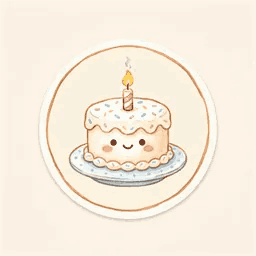
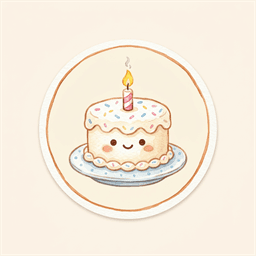
小程序: 纪念日图标恢复原始高清去除半透明底，界面样式去透明化

diff --git a/miniapp/src/features/main/anniversary.scss b/miniapp/src/features/main/anniversary.scss
@@ -5,7 +5,7 @@
 .anniv-list__skeleton--short { height: 148rpx; width: 86%; }
 @keyframes anniv-shimmer { to { background-position: -200% 0; } }
 .anniv-list__empty { display: flex; flex-direction: column; align-items: center; gap: 10rpx; padding: 80rpx 40rpx; background: #fffdf8; border: 1px solid #f0dcc8; border-radius: 28rpx; box-shadow: inset 0 1px 0 rgba(255, 255, 255, .85), 0 14rpx 30rpx rgba(126, 82, 49, .08); animation: anniv-rise .4s ease-out both; }
-.anniv-list__empty-icon { width: 132rpx; height: 132rpx; margin-bottom: 6rpx; filter: drop-shadow(0 8rpx 14rpx rgba(227, 154, 85, .25)); }
+.anniv-list__empty-icon { width: 132rpx; height: 132rpx; margin-bottom: 6rpx; }
 .anniv-list__empty-title { color: #5e3b1d; font-size: var(--font-size-card-title); font-weight: var(--font-weight-semibold); }
 .anniv-list__empty-hint { color: #a89489; font-size: var(--font-size-aux); }
 .anniv-list__card { position: relative; display: flex; align-items: center; gap: 22rpx; padding: 30rpx 26rpx; background: #fffdf8; border: 1px solid #f0dcc8; border-radius: 28rpx; box-shadow: inset 0 1px 0 rgba(255, 255, 255, .85), 0 2rpx 6rpx rgba(126, 82, 49, .05), 0 14rpx 30rpx rgba(126, 82, 49, .08); animation: anniv-rise .4s ease-out both; }
@@ -13,21 +13,21 @@
 .anniv-list__card:nth-child(3) { animation-delay: .08s; }
 .anniv-list__card:nth-child(n+4) { animation-delay: .12s; }
 .anniv-list__card--today { background: linear-gradient(180deg, #fff3dd, #ffe9cd); border-color: #f0c188; box-shadow: inset 0 1px 0 rgba(255, 255, 255, .9), 0 10rpx 26rpx rgba(227, 154, 85, .22); }
-.anniv-list__icon-ring { display: flex; align-items: center; justify-content: center; flex-shrink: 0; width: 104rpx; height: 104rpx; background: linear-gradient(160deg, #fff4e3, #ffe6c9); border-radius: 50%; box-shadow: inset 0 0 0 2rpx rgba(255, 255, 255, .7), 0 4rpx 10rpx rgba(227, 154, 85, .2); }
-.anniv-list__icon { width: 68rpx; height: 68rpx; }
+.anniv-list__icon-ring { display: flex; align-items: center; justify-content: center; flex-shrink: 0; width: 108rpx; height: 108rpx; background: #fbf3e3; border-radius: 26rpx; box-shadow: 0 4rpx 10rpx rgba(126, 82, 49, .1); }
+.anniv-list__icon { width: 88rpx; height: 88rpx; }
 .anniv-list__body { display: flex; flex: 1; flex-direction: column; gap: 6rpx; min-width: 0; }
 .anniv-list__name { color: #5e3b1d; font-size: var(--font-size-card-title); font-weight: var(--font-weight-bold); }
 .anniv-list__meta { color: #b49a8d; font-size: var(--font-size-aux); }
 .anniv-list__note { color: #a89489; font-size: var(--font-size-aux); overflow: hidden; text-overflow: ellipsis; white-space: nowrap; }
 .anniv-list__sub { color: #d97b4f; font-size: var(--font-size-aux); font-weight: var(--font-weight-medium); }
-.anniv-list__count { display: flex; flex-direction: column; align-items: center; justify-content: center; flex-shrink: 0; min-width: 136rpx; padding: 18rpx 12rpx; background: linear-gradient(165deg, #fff1dd, #ffe3c1); border-radius: 22rpx; box-shadow: inset 0 0 0 2rpx rgba(255, 255, 255, .65), 0 4rpx 12rpx rgba(227, 154, 85, .18); }
+.anniv-list__count { display: flex; flex-direction: column; align-items: center; justify-content: center; flex-shrink: 0; min-width: 136rpx; padding: 18rpx 12rpx; background: linear-gradient(165deg, #fff1dd, #ffe3c1); border-radius: 22rpx; box-shadow: 0 4rpx 12rpx rgba(227, 154, 85, .18); }
 .anniv-list__count--today { background: linear-gradient(165deg, #ffe5bd, #ffd09c); }
 .anniv-list__count-num { color: #c9603a; font-size: var(--font-size-overlay-title); font-weight: var(--font-weight-bold); line-height: 1.15; }
 .anniv-list__count--today .anniv-list__count-num { color: #b54f28; }
 .anniv-list__count-unit { color: #c08c62; font-size: var(--font-size-aux); font-weight: var(--font-weight-medium); line-height: 1.4; }
-.anniv-list__add { margin-top: 4rpx; padding: 26rpx 0; color: #b3703f; background: rgba(255, 253, 248, .7); border: 2rpx dashed #d9ad83; border-radius: 28rpx; font-size: var(--font-size-body); font-weight: var(--font-weight-semibold); box-shadow: inset 0 1px 0 rgba(255, 255, 255, .8); }
+.anniv-list__add { margin-top: 4rpx; padding: 26rpx 0; color: #b3703f; background: #fffdf8; border: 2rpx dashed #d9ad83; border-radius: 28rpx; font-size: var(--font-size-body); font-weight: var(--font-weight-semibold); box-shadow: 0 4rpx 10rpx rgba(126, 82, 49, .06); }
 .anniv-list__add::after { border: none; }
-@keyframes anniv-rise { from { opacity: 0; transform: translateY(18rpx); } to { opacity: 1; transform: translateY(0); } }
+@keyframes anniv-rise { from { transform: translateY(18rpx); } to { transform: translateY(0); } }
 @media (prefers-reduced-motion: reduce) {
   .anniv-list__skeleton { animation: none; }
   .anniv-list__card, .anniv-list__empty, .anniv-form { animation: none; }
@@ -42,9 +42,9 @@
 .anniv-form__value { color: #5e3b1d; font-size: var(--font-size-body); font-weight: var(--font-weight-semibold); }
 .anniv-form__input { color: #5e3b1d; font-size: var(--font-size-body); }
 .anniv-form__icons { display: flex; gap: 14rpx; }
-.anniv-form__icon-item { display: flex; flex: 1; align-items: center; justify-content: center; margin: 0; padding: 20rpx 0; background: #fff8ee; border: 2rpx solid #f3e3cf; border-radius: 20rpx; }
+.anniv-form__icon-item { display: flex; flex: 1; align-items: center; justify-content: center; margin: 0; padding: 20rpx 0; background: #fbf3e3; border: 2rpx solid #f0e0c8; border-radius: 20rpx; }
 .anniv-form__icon-item::after { border: 0; }
-.anniv-form__icon-item--active { background: linear-gradient(165deg, #fdeede, #fbe0c6); border-color: #e29a55; box-shadow: inset 0 0 0 2rpx rgba(255, 255, 255, .6), 0 6rpx 14rpx rgba(227, 154, 85, .22); }
+.anniv-form__icon-item--active { background: #f9e2c4; border-color: #e29a55; box-shadow: 0 6rpx 14rpx rgba(227, 154, 85, .25); }
 .anniv-form__icon-img { width: 84rpx; height: 84rpx; }
 .anniv-form__repeat { display: flex; gap: 0; padding: 6rpx; background: #f4e5d0; border-radius: 999rpx; box-shadow: inset 0 2rpx 6rpx rgba(126, 82, 49, .08); }
 .anniv-form__repeat-item, .anniv-form__repeat-item--active { flex: 1; margin: 0; padding: 12rpx 0; background: transparent; border: 0; border-radius: 999rpx; color: #8e776a; font-size: var(--font-size-secondary); }

diff --git a/miniapp/src/features/main/JournalAnniversaryPanel.scss b/miniapp/src/features/main/JournalAnniversaryPanel.scss
@@ -9,7 +9,7 @@
   min-height: 100%;
   padding: 12rpx 32rpx 64rpx;
   box-sizing: border-box;
-  background: linear-gradient(180deg, #fff1df 0%, rgba(255, 248, 238, 0) 380rpx), #fff8ee;
+  background: linear-gradient(180deg, #fff1df 0%, #fff8ee 380rpx);
 }
 .journal-anniv-panel__top { display: flex; align-items: center; gap: 16rpx; padding: 12rpx 0 8rpx; }
 .journal-anniv-panel__title { color: #382b23; font-size: var(--font-size-page-title); font-weight: var(--font-weight-bold); }

diff --git a/docs/features/miniapp.md b/docs/features/miniapp.md
@@ -47,7 +47,7 @@ flowchart LR
 - 全小程序返回入口统一使用共享组件 `MiniappBackButton`（`miniapp/src/components/`）：无底色的深棕细左箭头（CSS 边框旋转绘制，4rpx 描边），仅保留 72rpx 透明命中区域与按压变淡反馈，`aria-label="返回"`。写日记顶栏、纪念日面板、今日运势页、游戏中心和五子棋页的返回都由它渲染，不再各自维护 `‹` 字符或文字样式。
 - 小记为单人日记：整页固定一屏不滚动（容器 `height: calc(100vh - 220px)`、`overflow: hidden`），今日运势条固定可见，「查看」展开的历史日记在今日块固定区域内超出裁剪；页面背景与其它主界面同为 `#fff8ee`；标题左对齐，下方简介「记录和小多利的每一天。」，「日记 / 纪念日」居中分页；周历放在白卡片里；今日日记卡右侧有「查看」，未上传照片时默认拍立得用坐姿小狗并放大到 280×292（与上传照片白框外径一致，切换不跳变），正文在卡内 `ScrollView` 滚动查看（字号不变，`word-break: break-all` 保证无空格长串也换行），上传照片后用白框拍立得展示（264 内衬 + 8/8/20 边衬，倾角与坐姿邮票一致，约 -6°）；写日记/拍照记录插图较大；各区块使用统一 32rpx 间距；写日记/拍照记录按钮收矮且距卡片底边不变，今日日记上半拍立得区固定 292rpx，运势条紧跟其下、与底栏间距接近消息页。写日记和纪念日都在当前页全屏打开，不跳转；写日记覆盖层固定一屏不滚动，自带顶栏（统一返回按钮 / 写日记 / 保存）、白卡片占满剩余高度（卡片内除正文外全部定高不可压缩；庭院插画整体下移 85rpx 裁掉部分底部空草地，小狗落在卡片下方约 330rpx 露出带里）和心情选择行；正文 textarea 是卡片内唯一弹性区（内容多时在框内滚动，最低 60rpx），相册缩略图行和地点输入出现时压缩正文区而非撑高卡片；心情直接点选表情图（难过/平静/开心/兴奋，120rpx 大图，选中高亮），日期行不再重复显示心情文字；天气按钮动态显示当前天气图标；未放照片时拍立得放大为 300×326（奔跑邮票 `aspectFit` 居中，「点这里放今天的照片」提示收在框内下方，不遮挡工具栏），放照片后白框外径与之完全一致（272 内衬 + 14/14/40 边衬，倾角与默认奔跑邮票一致约 +6°，两张默认邮票倾角实测方向相反），切换尺寸不跳变，默认插图为奔跑小狗；照片最多 3 张，点主图弹「查看大图/更换照片」，点主图下方缩略图直接预览大图，缩略图 × 移除不影响预览。不提供点赞和分享。
 - 日记数据使用个人维度 `/api/diaries` 接口（创建、区间列表、更新、删除、切换喜欢），照片压缩后以 base64 存储，单张不超过 30 万字符、每篇最多 3 张。
-- 纪念日与日记编辑器仍保留独立页面路由作壳层（`pages/journal-anniversary`、`pages/journal-editor`），主路径在小记当前页全屏打开对应面板；纪念日沿用房间维度接口，无好友时回退个人 `pet_dm` 房间。纪念日面板顶部有暖色渐变过渡；进入面板先显示两块微光骨架卡，接口返回后才渲染列表或空态，不再先闪默认空状态。纪念日列表卡片为「圆形暖底渐变图标底座 + 左侧信息 + 右侧倒计时聚焦块」，带顶部高光与多层投影：信息列依次为名称（卡片标题档）、日期行（`2024年8月28日 · 每年/单次`）、说明（单行省略）与「已走过 N 天」等辅句；右侧聚焦块展示大号倒计时数字加「天后/天前」单位（40rpx 档），点击卡片进入编辑；当天纪念日卡片换暖色渐变底，聚焦块显示「今天」，辅句显示「第 N 周年 🎉」（单次为「就是今天 🎉」）；未到首次日期的纪念日辅句显示「期待中 ✨」。列表按下次日期由近到远排序（过期单次垫底），底部为虚线描边卡片式「+ 添加纪念日」按钮；空状态为白卡居中气球插画加「还没有纪念日」与引导文案；列表卡片有轻量上浮入场动效并支持 `prefers-reduced-motion` 降级。表单整体收进白卡：日期、名称、说明为暖底字段块，五个图标选项为等宽大图标格（84rpx，无文字标签，选中暖底加深色描边），「每年重复/不重复」为分段控件（选中格白底浮起，原生按钮边框已重置），底部操作行为「取消 / 删除（编辑时） / 保存」，保存为暖色渐变胶囊按钮。
+- 纪念日与日记编辑器仍保留独立页面路由作壳层（`pages/journal-anniversary`、`pages/journal-editor`），主路径在小记当前页全屏打开对应面板；纪念日沿用房间维度接口，无好友时回退个人 `pet_dm` 房间。纪念日面板顶部有暖色渐变过渡；进入面板先显示两块微光骨架卡，接口返回后才渲染列表或空态，不再先闪默认空状态。纪念日列表卡片为「暖底圆角方形图标座 + 左侧信息 + 右侧倒计时聚焦块」，带顶部高光与多层投影（图标为 256×256 不透明索引色 PNG，图标座实底 `#fbf3e3` 与图标自带底色一致，避免透明叠加）：信息列依次为名称（卡片标题档）、日期行（`2024年8月28日 · 每年/单次`）、说明（单行省略）与「已走过 N 天」等辅句；右侧聚焦块展示大号倒计时数字加「天后/天前」单位（40rpx 档），点击卡片进入编辑；当天纪念日卡片换暖色渐变底，聚焦块显示「今天」，辅句显示「第 N 周年 🎉」（单次为「就是今天 🎉」）；未到首次日期的纪念日辅句显示「期待中 ✨」。列表按下次日期由近到远排序（过期单次垫底），底部为虚线描边卡片式「+ 添加纪念日」按钮；空状态为白卡居中气球插画加「还没有纪念日」与引导文案；列表卡片有轻量上浮入场动效并支持 `prefers-reduced-motion` 降级。表单整体收进白卡：日期、名称、说明为暖底字段块，五个图标选项为等宽大图标格（84rpx，无文字标签，选中暖底加深色描边），「每年重复/不重复」为分段控件（选中格白底浮起，原生按钮边框已重置），底部操作行为「取消 / 删除（编辑时） / 保存」，保存为暖色渐变胶囊按钮。
 - 我的页面支持 MBTI 选择并通过资料接口保存。
 - 我的页面复用 `avatarConfig` 合同，支持头像预览、编辑、恢复和保存。
 - 小程序主页面壳层、底部安全区和底部导航使用统一的 `#fff8ee` 背景，避免切换到底部页面时出现白色露底。
